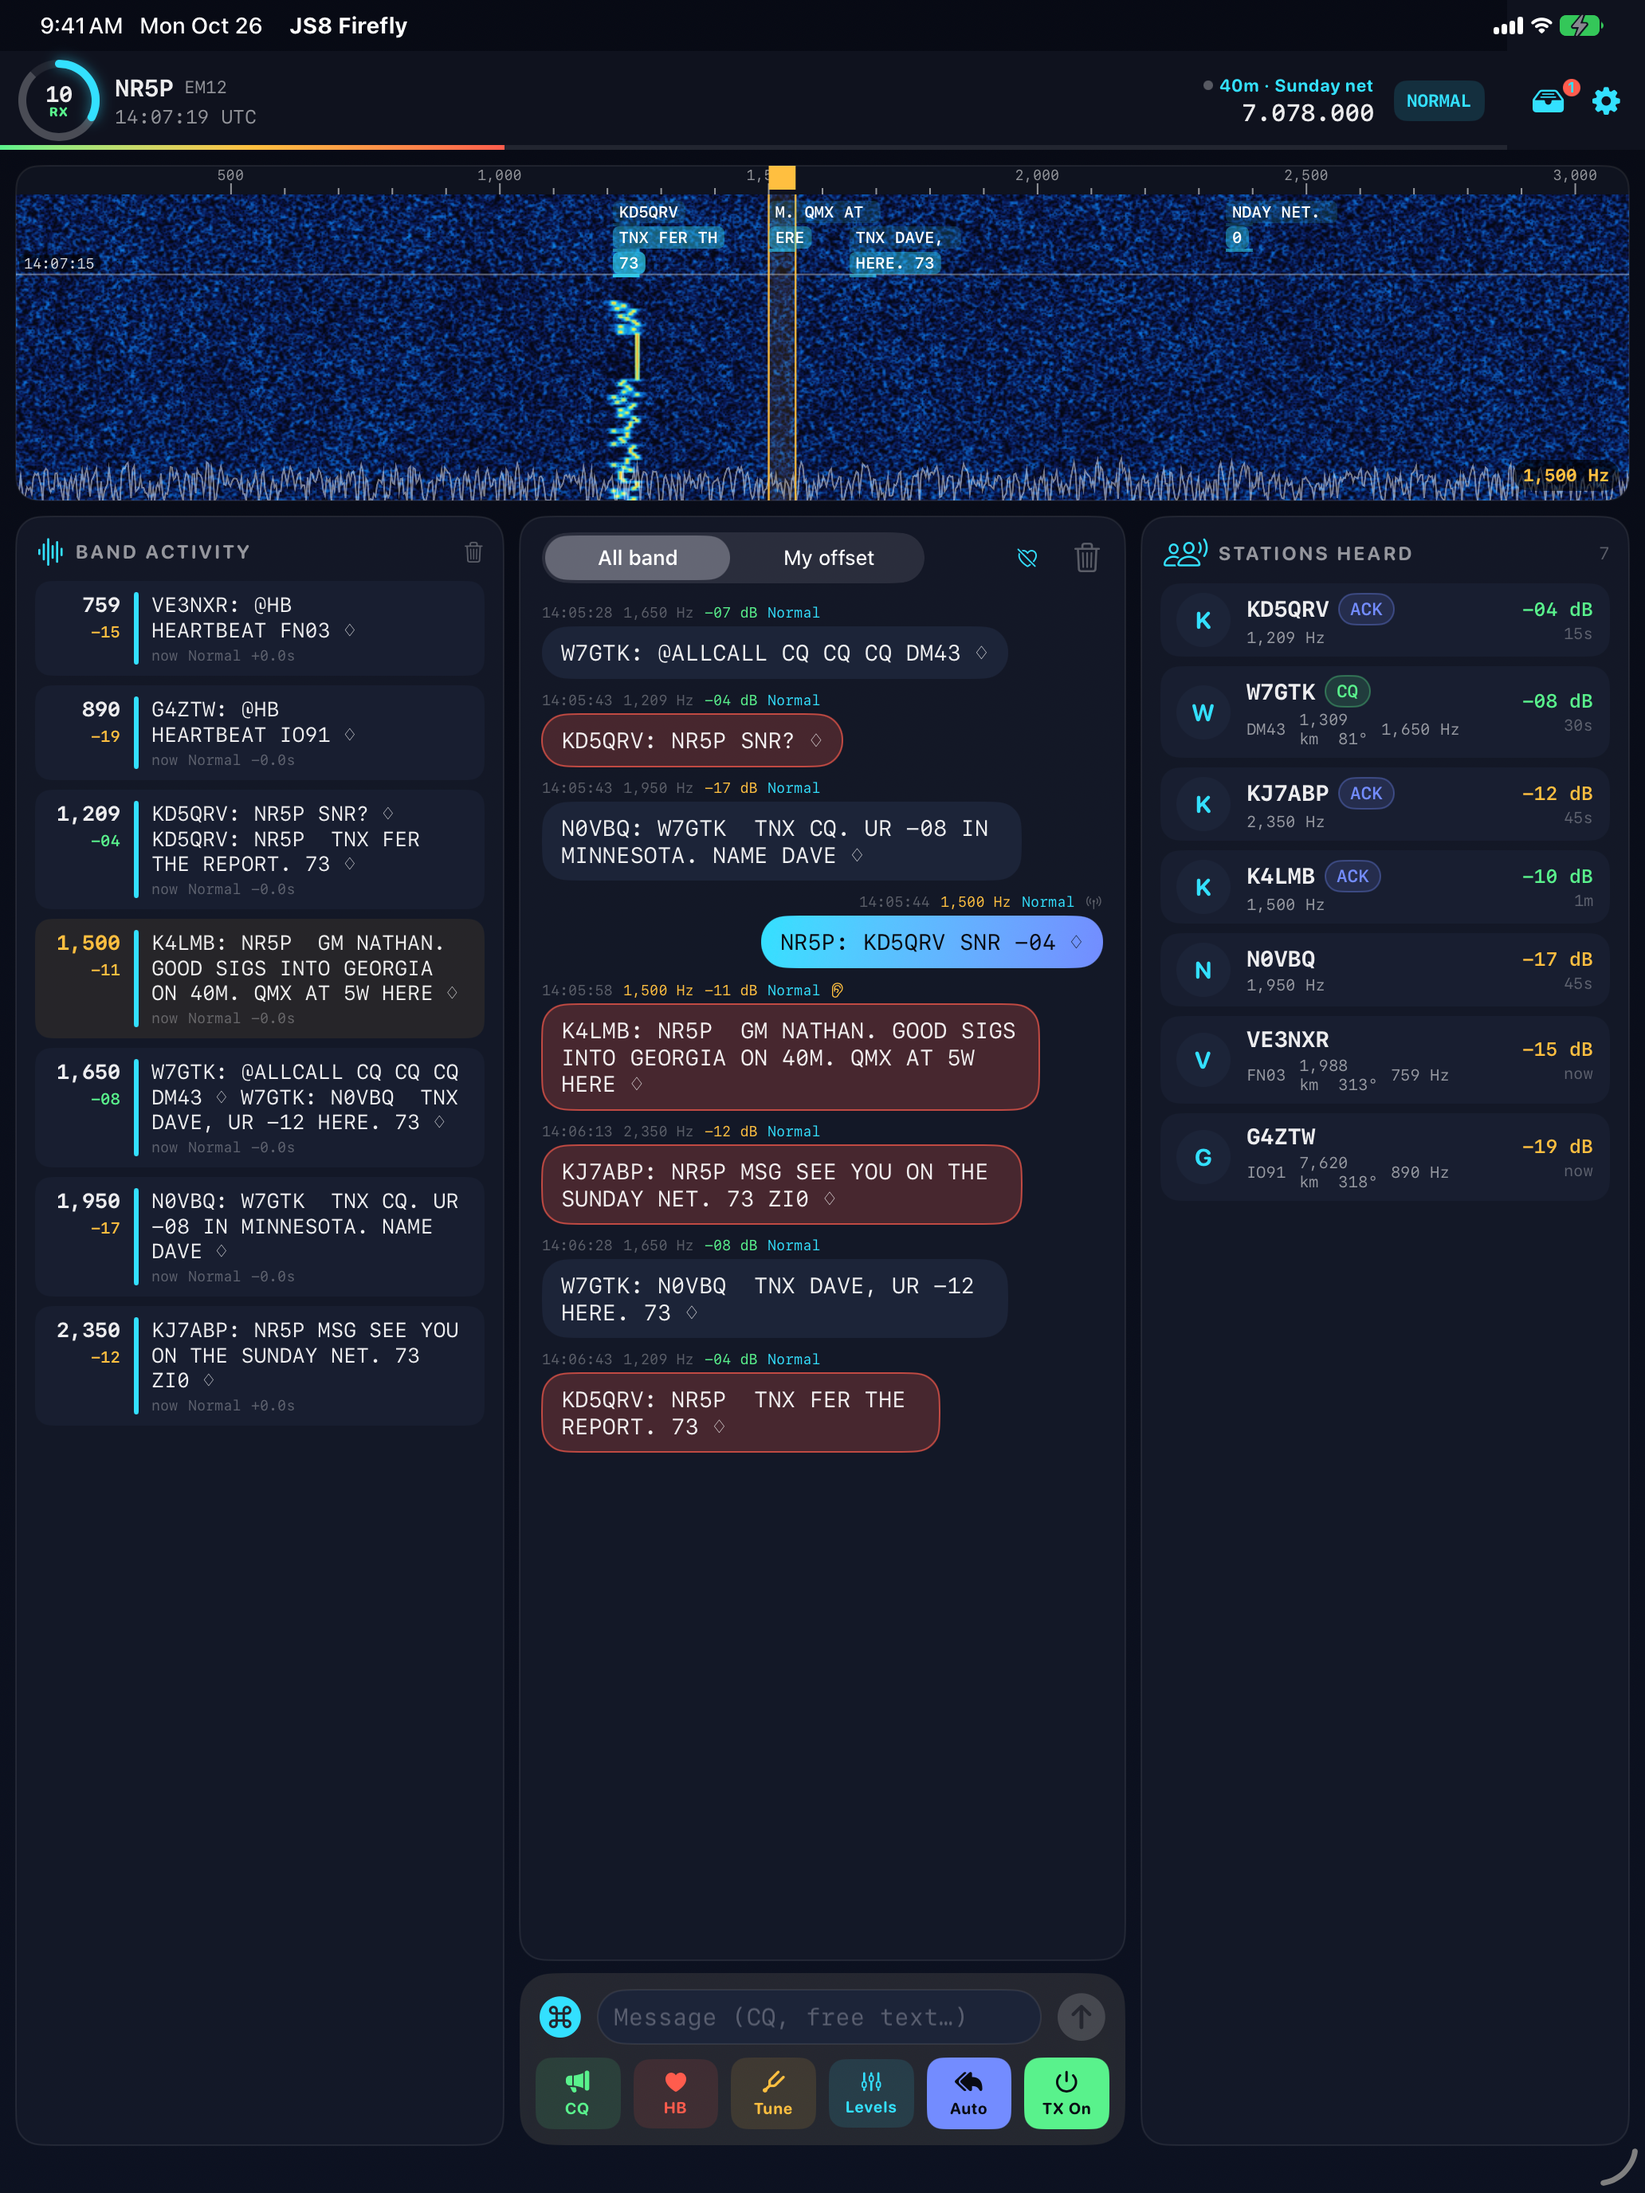
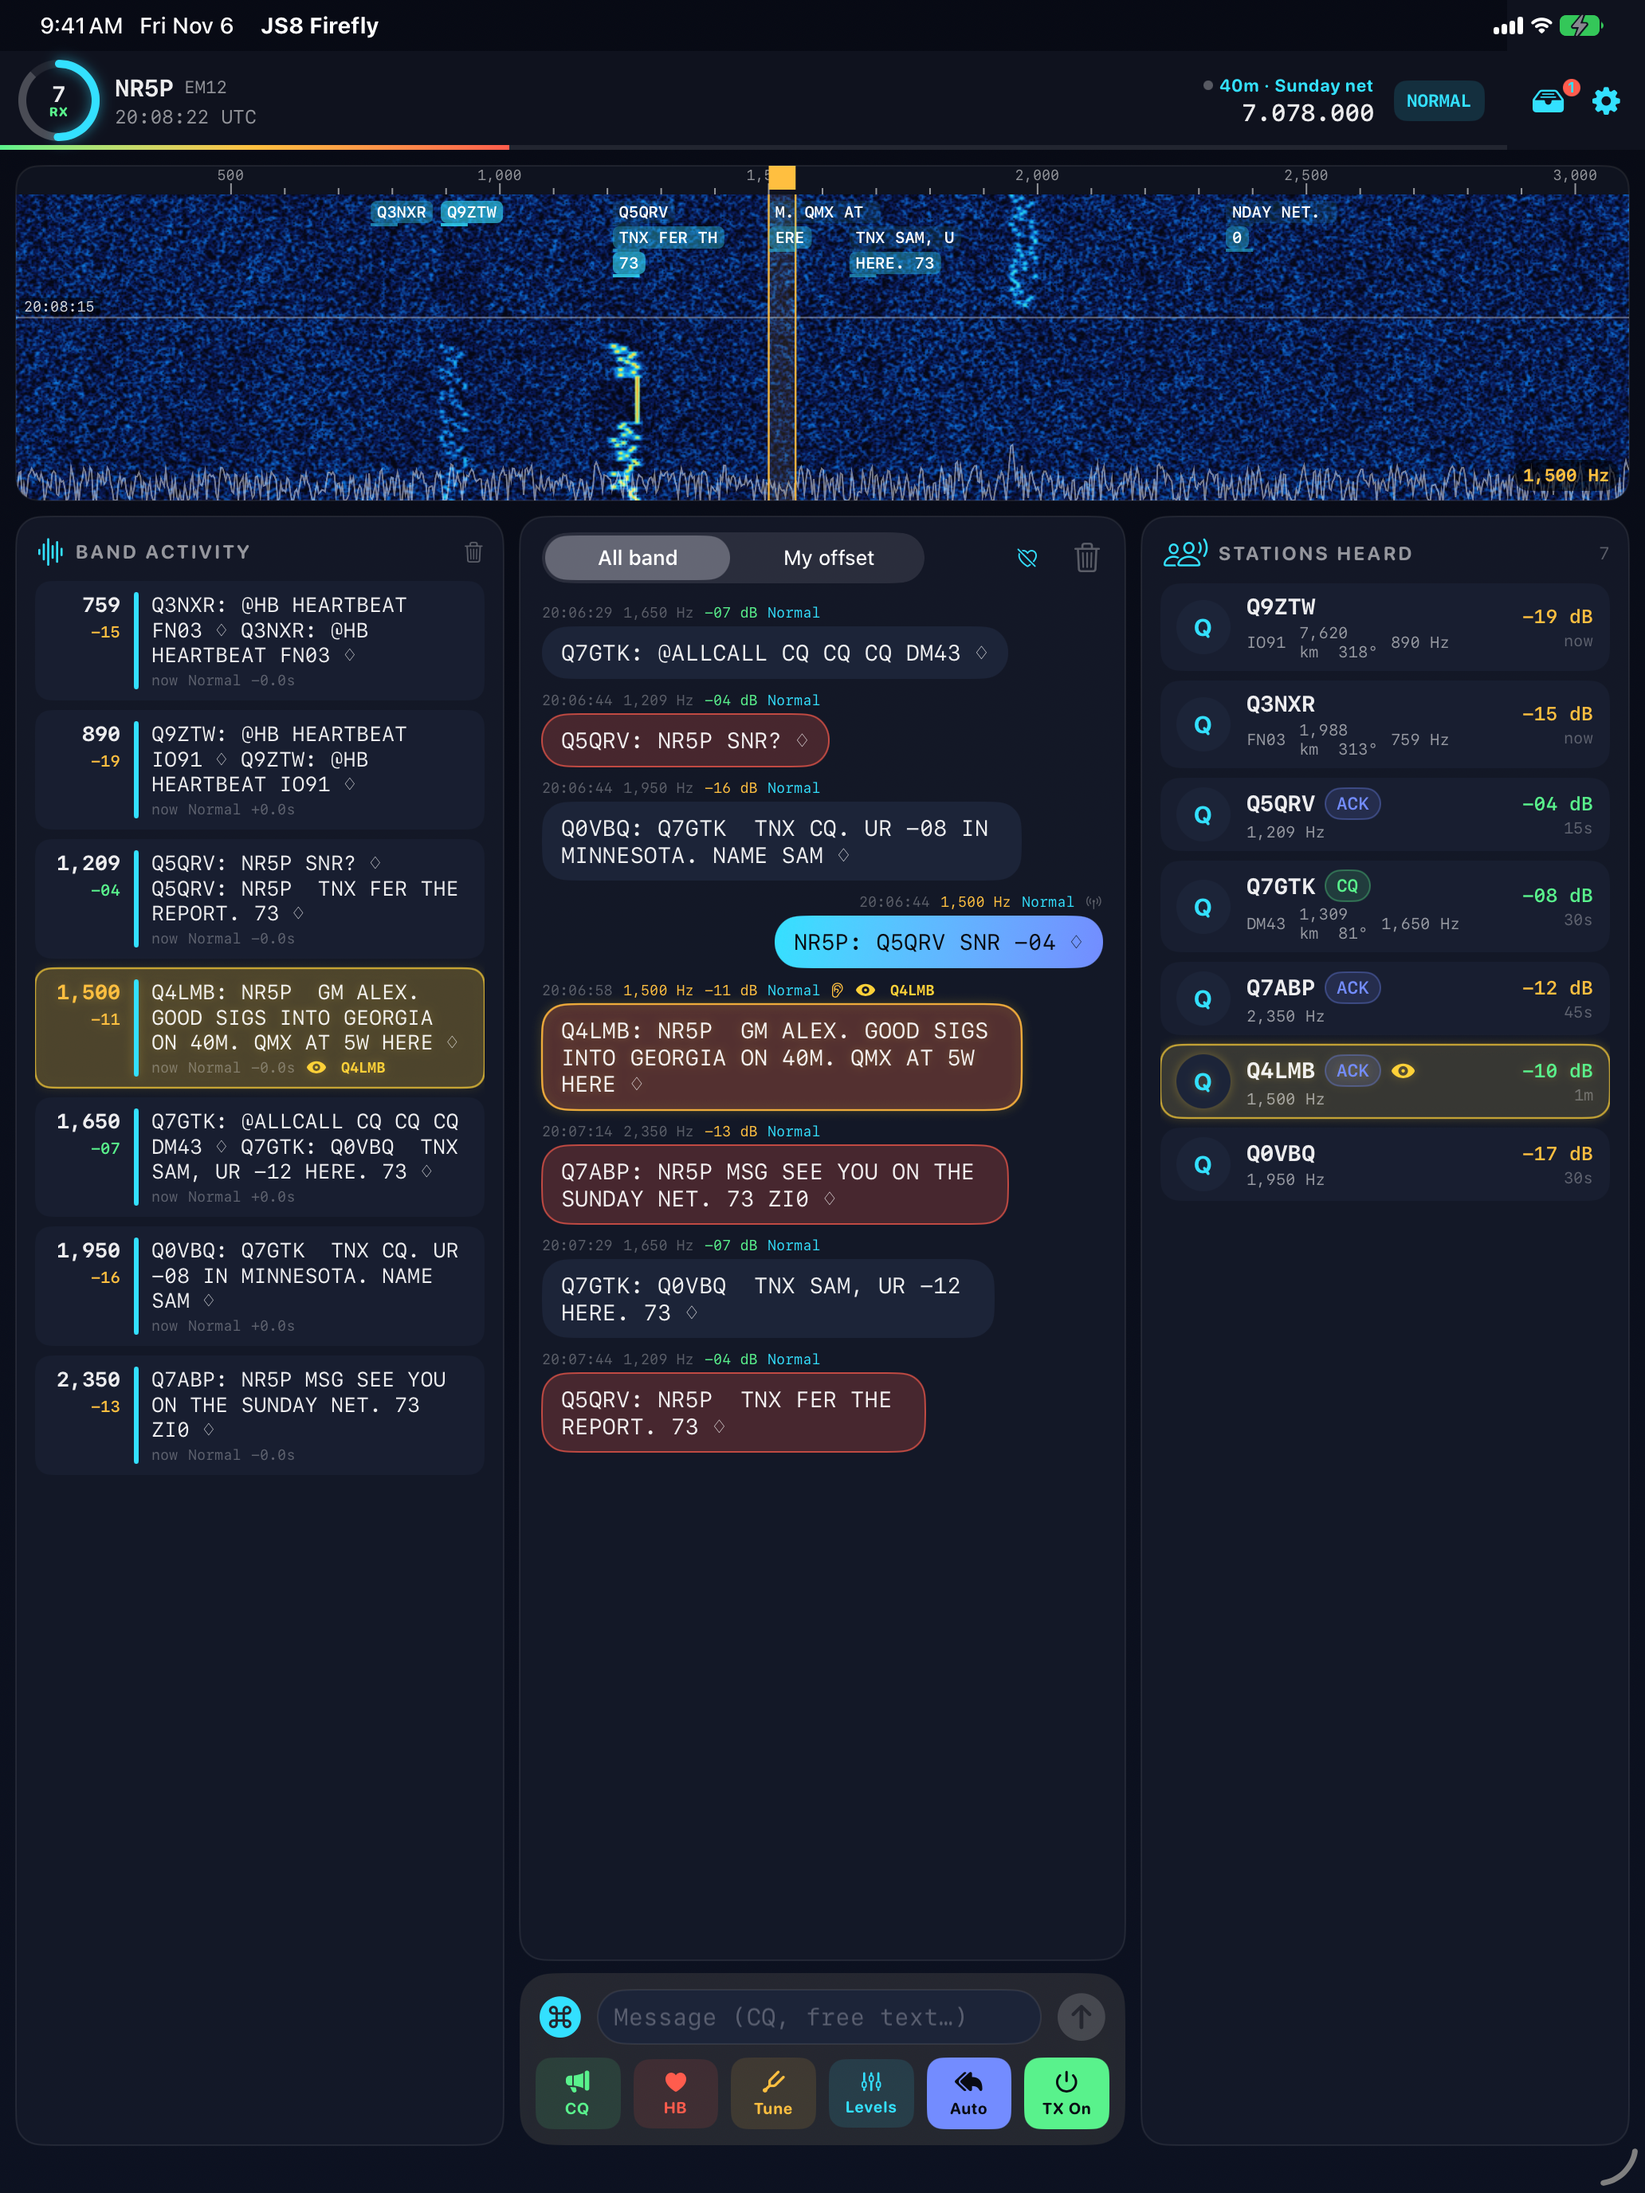
Use fake Q-prefix callsigns in the screenshot demo and retake the App Store screenshots

diff --git a/JS8Call/App/DemoAir.swift b/JS8Call/App/DemoAir.swift
@@ -62,28 +62,28 @@ final class DemoAir {
         self.ring = ring
         self.spectrum = spectrum
         self.onLevel = onLevel
-        add("W7GTK", "DM43", offset: 1650, amplitude: 260)
-        add("KD5QRV", "EM20", offset: 1210, amplitude: 400)
-        add("VE3NXR", "FN03", offset: 760, amplitude: 110)
-        add("K4LMB", "EM73", offset: 1500, amplitude: 180)
-        add("N0VBQ", "EN34", offset: 1950, amplitude: 90)
-        add("G4ZTW", "IO91", offset: 890, amplitude: 70)
-        add("KJ7ABP", "DN17", offset: 2350, amplitude: 150)
+        add("Q7GTK", "DM43", offset: 1650, amplitude: 260)
+        add("Q5QRV", "EM20", offset: 1210, amplitude: 400)
+        add("Q3NXR", "FN03", offset: 760, amplitude: 110)
+        add("Q4LMB", "EM73", offset: 1500, amplitude: 180)
+        add("Q0VBQ", "EN34", offset: 1950, amplitude: 90)
+        add("Q9ZTW", "IO91", offset: 890, amplitude: 70)
+        add("Q7ABP", "DN17", offset: 2350, amplitude: 150)
 
         cues = [
-            Cue(period: 0, call: "W7GTK", to: "", text: "CQ"),
-            Cue(period: 0, call: "VE3NXR", to: "", text: "HB"),
-            Cue(period: 0, call: "G4ZTW", to: "", text: "HB"),
-            Cue(period: 1, call: "KD5QRV", to: Self.mycall, text: "SNR?"),
-            Cue(period: 1, call: "N0VBQ", to: "W7GTK", text: "TNX CQ. UR -08 IN MINNESOTA. NAME DAVE"),
-            Cue(period: 2, call: "K4LMB", to: Self.mycall, text: "GM NATHAN. GOOD SIGS INTO GEORGIA ON 40M. QMX AT 5W HERE"),
-            Cue(period: 3, call: "KJ7ABP", to: Self.mycall, text: "MSG SEE YOU ON THE SUNDAY NET. 73"),
-            Cue(period: 4, call: "W7GTK", to: "N0VBQ", text: "TNX DAVE, UR -12 HERE. 73"),
-            Cue(period: 5, call: "KD5QRV", to: Self.mycall, text: "TNX FER THE REPORT. 73"),
-            Cue(period: 6, call: "VE3NXR", to: "", text: "HB"),
-            Cue(period: 7, call: "G4ZTW", to: "", text: "HB"),
-            Cue(period: 8, call: "N0VBQ", to: "@ARES", text: "NET TONIGHT 0100Z ON 3578 KHZ"),
-            Cue(period: 9, call: "K4LMB", to: "", text: "HB"),
+            Cue(period: 0, call: "Q7GTK", to: "", text: "CQ"),
+            Cue(period: 0, call: "Q3NXR", to: "", text: "HB"),
+            Cue(period: 0, call: "Q9ZTW", to: "", text: "HB"),
+            Cue(period: 1, call: "Q5QRV", to: Self.mycall, text: "SNR?"),
+            Cue(period: 1, call: "Q0VBQ", to: "Q7GTK", text: "TNX CQ. UR -08 IN MINNESOTA. NAME SAM"),
+            Cue(period: 2, call: "Q4LMB", to: Self.mycall, text: "GM ALEX. GOOD SIGS INTO GEORGIA ON 40M. QMX AT 5W HERE"),
+            Cue(period: 3, call: "Q7ABP", to: Self.mycall, text: "MSG SEE YOU ON THE SUNDAY NET. 73"),
+            Cue(period: 4, call: "Q7GTK", to: "Q0VBQ", text: "TNX SAM, UR -12 HERE. 73"),
+            Cue(period: 5, call: "Q5QRV", to: Self.mycall, text: "TNX FER THE REPORT. 73"),
+            Cue(period: 6, call: "Q3NXR", to: "", text: "HB"),
+            Cue(period: 7, call: "Q9ZTW", to: "", text: "HB"),
+            Cue(period: 8, call: "Q0VBQ", to: "@ARES", text: "NET TONIGHT 0100Z ON 3578 KHZ"),
+            Cue(period: 9, call: "Q4LMB", to: "", text: "HB"),
         ]
     }
 
@@ -215,9 +215,9 @@ final class DemoAir {
         s.customFrequencies = [
             SavedFrequency(frequency: 7_078_000, label: "Sunday net"),
             SavedFrequency(frequency: 3_578_000, label: "Texas ARES"),
-            SavedFrequency(frequency: 14_080_000, label: "Sked with K4LMB"),
+            SavedFrequency(frequency: 14_080_000, label: "Sked with Q4LMB"),
         ]
-        s.watchList = [WatchItem(term: "K4LMB", color: .gold), WatchItem(term: "ARES", color: .magenta)]
+        s.watchList = [WatchItem(term: "Q4LMB", color: .gold), WatchItem(term: "ARES", color: .magenta)]
     }
 }
 #endif

diff --git a/JS8Call/Views/SettingsView.swift b/JS8Call/Views/SettingsView.swift
@@ -130,7 +130,7 @@ private struct WatchSection: View {
     var body: some View {
         Section {
             HStack {
-                TextField("K4LMB, @ARES or a word", text: Binding(get: { term }, set: { term = $0.uppercased() }))
+                TextField("NR5P, @ARES or a word", text: Binding(get: { term }, set: { term = $0.uppercased() }))
                     .font(Theme.mono(15))
                     .uppercaseInput()
                     .onSubmit(add)
